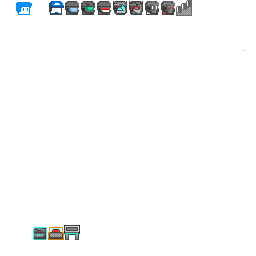
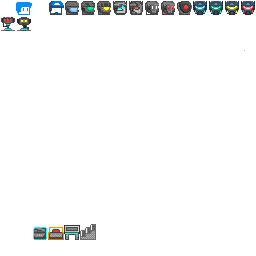
Added new enemy sprite.

diff --git a/entity_factory.py b/entity_factory.py
@@ -172,7 +172,7 @@ security = Actor(
     )
 
 security_smg = Actor(
-    char="♣", 
+    char="♠", 
     color=(255, 255, 255), 
     name="Security", 
     ai_class=HostileRangedEnemy,equipment=Equipment(weapon=smg, armor=chain_mail), 
@@ -183,7 +183,7 @@ security_smg = Actor(
     )
 
 combat_droid = Actor(
-    char="C", 
+    char="♂", 
     color=(255, 255, 255), 
     name="Combat Droid", 
     ai_class=HostileRangedEnemy,equipment=Equipment(weapon=smg), 
@@ -194,7 +194,7 @@ combat_droid = Actor(
     )
 
 marine_sa = Actor(
-    char="M", 
+    char="♀", 
     color=(255, 255, 255), 
     name="Assault Marine", 
     ai_class=HostileRangedEnemy,equipment=Equipment(weapon=carbine_ba, armor=combat_armor),
@@ -205,7 +205,7 @@ marine_sa = Actor(
     )
 
 marine_ba = Actor(
-    char="M", 
+    char="♪", 
     color=(255, 255, 255), 
     name="Support Marine", 
     ai_class=HostileRangedEnemy,equipment=Equipment(weapon=carbine_sa, armor=combat_armor), 
@@ -216,7 +216,7 @@ marine_ba = Actor(
     )
 
 marine_ap = Actor(
-    char="M", 
+    char="♫", 
     color=(255, 255, 255), 
     name="Marine Sharpshooter", 
     ai_class=HostileRangedEnemy,equipment=Equipment(weapon=rifle_ap, armor=combat_armor), 
@@ -227,7 +227,7 @@ marine_ap = Actor(
     )
 
 marine_la = Actor(
-    char="M", 
+    char="☼", 
     color=(255, 255, 255), 
     name="Marine Laser Sharpshooter", 
     ai_class=HostileRangedEnemy,equipment=Equipment(weapon=rifle_laser, armor=combat_armor), 
@@ -238,7 +238,7 @@ marine_la = Actor(
     )
 
 beam_turret = Actor(
-    char="T", 
+    char="►", 
     color=(255, 255, 255), 
     name="Beam Turret", 
     ai_class=TurretEnemy,equipment=Equipment(weapon=beam_t), 
@@ -249,7 +249,7 @@ beam_turret = Actor(
     )
 
 pulse_turret = Actor(
-    char="T", 
+    char="◄", 
     color=(255, 255, 255), 
     name="Pulse Turret", 
     ai_class=TurretEnemy,equipment=Equipment(weapon=pulse_t), 

diff --git a/dungen.py b/dungen.py
@@ -25,7 +25,7 @@ max_items_for_floor_by_floor = [
     (1, 3),
     (3, 4),
     (4, 5),
-    (5, 6),
+    (6, 6),
     (7, 7), 
     (10, 10),
 ]
@@ -71,7 +71,7 @@ special_room_type_chance: Dict[int, List[Tuple[int, int]]] = {
 #(Type, [Min_x ,Max_x, Min_y, Max_y, [(Entity,(pos_x,pos_y))]]])
 #        --------Room size----------  -----Entity in Room-----
 special_room_attribute: Dict = {
-    0: (7,7,7,7,[(entity_factory.item_box,(3,3))]),
+    0: (7,7,7,7,[(entity_factory.item_box,(3,3))],[]),
     1: (10,10,10,10,[(entity_factory.table,(3,3)),(entity_factory.table,(7,3)),
                      (entity_factory.table,(3,6)),(entity_factory.table,(7,6)),
                      (entity_factory.janitor,(3,4)),(entity_factory.janitor,(7,4)),
@@ -180,8 +180,8 @@ enemy_chances: Dict[int, List[Tuple[Entity, int]]] = {
     2: [(entity_factory.crew, 15)],
     3: [(entity_factory.security, 20),(entity_factory.item_box, 4)],
     4: [(entity_factory.crew, 20), (entity_factory.item_box, 5), (entity_factory.security_smg, 25),(entity_factory.janitor, 0)],
-    5: [(entity_factory.combat_droid, 18),(entity_factory.security, 30), (entity_factory.security_smg, 30)],
-    6: [(entity_factory.combat_droid, 28),(entity_factory.crew, 0)],
+    5: [(entity_factory.combat_droid, 20),(entity_factory.security, 30), (entity_factory.security_smg, 30)],
+    6: [(entity_factory.combat_droid, 32),(entity_factory.crew, 0)],
     #7 : New Item box
     8: [(entity_factory.error_clone01, 20),(entity_factory.error_clone02, 20)],
     9: [(entity_factory.marine_ba, 20),(entity_factory.marine_sa, 20)],

diff --git a/tile_types.py b/tile_types.py
@@ -54,8 +54,8 @@ wall2 = new_tile(
 up_stairs = new_tile(
     walkable=True,
     transparent=True,
-    dark=(ord("♂"), (50, 50, 50), (0, 0, 0)),
-    light=(ord("♂"), (255, 255, 255), (0, 0, 0)),
+    dark=(ord("σ"), (50, 50, 50), (0, 0, 0)),
+    light=(ord("σ"), (255, 255, 255), (0, 0, 0)),
 )
 end_switch = new_tile(
     walkable=True,
